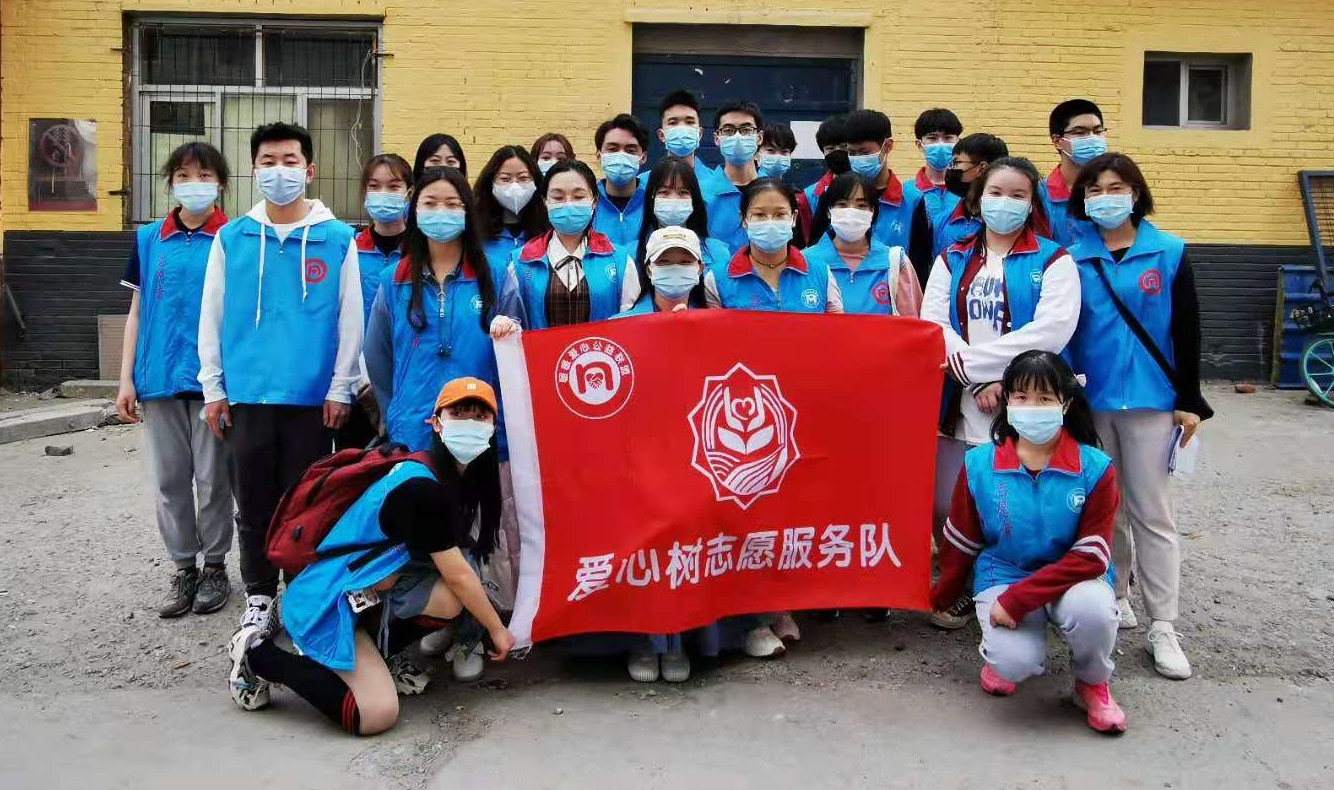
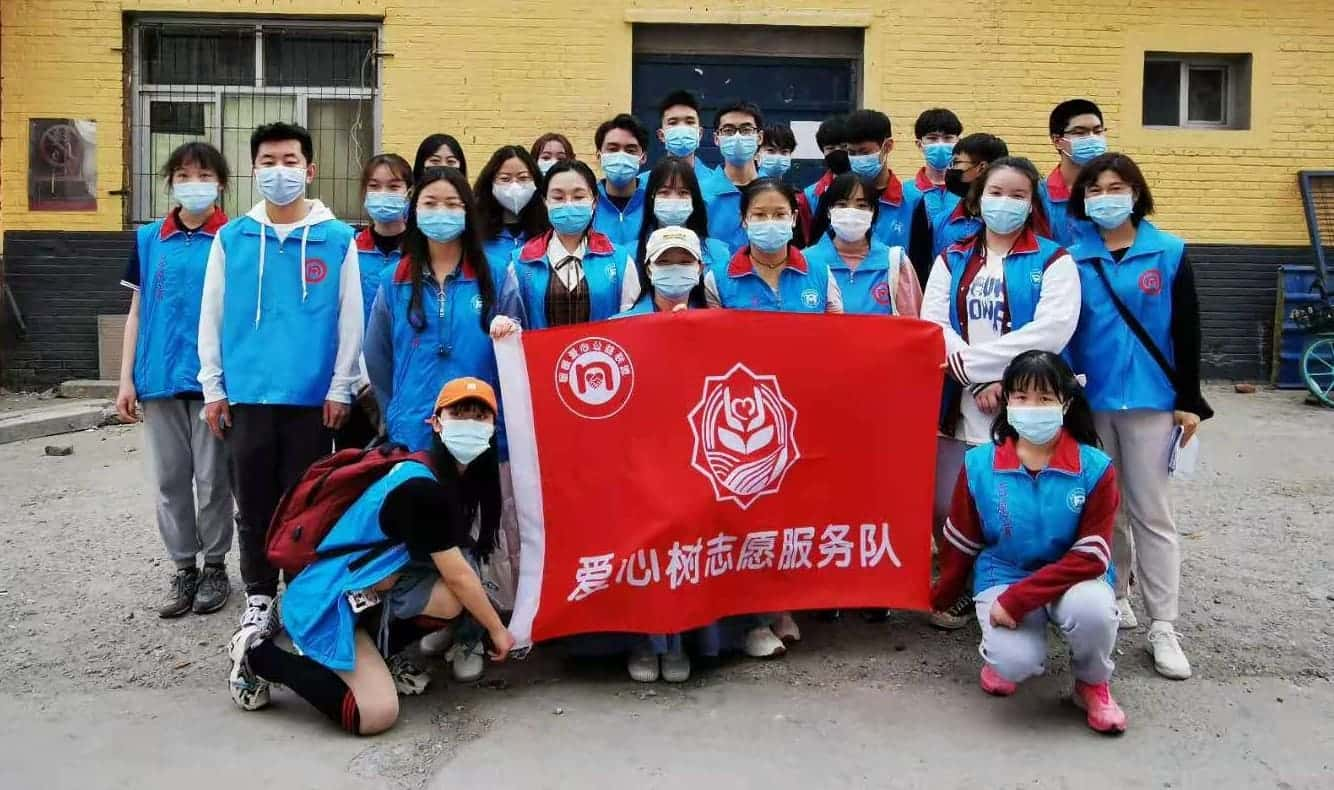
1、图片压缩

diff --git a/Personal/index.html b/Personal/index.html
@@ -21,7 +21,7 @@
 	<body>
 		<aside class="sidebar">
 			<div class="avatar">
-				<img src="static/img/me.jpg" title="Chien_W" />
+				<img src="../img/me.jpg" title="Chien_W" />
 			</div>
 			<nav class="nav">
 				<a href="../index.html">Home</a>
